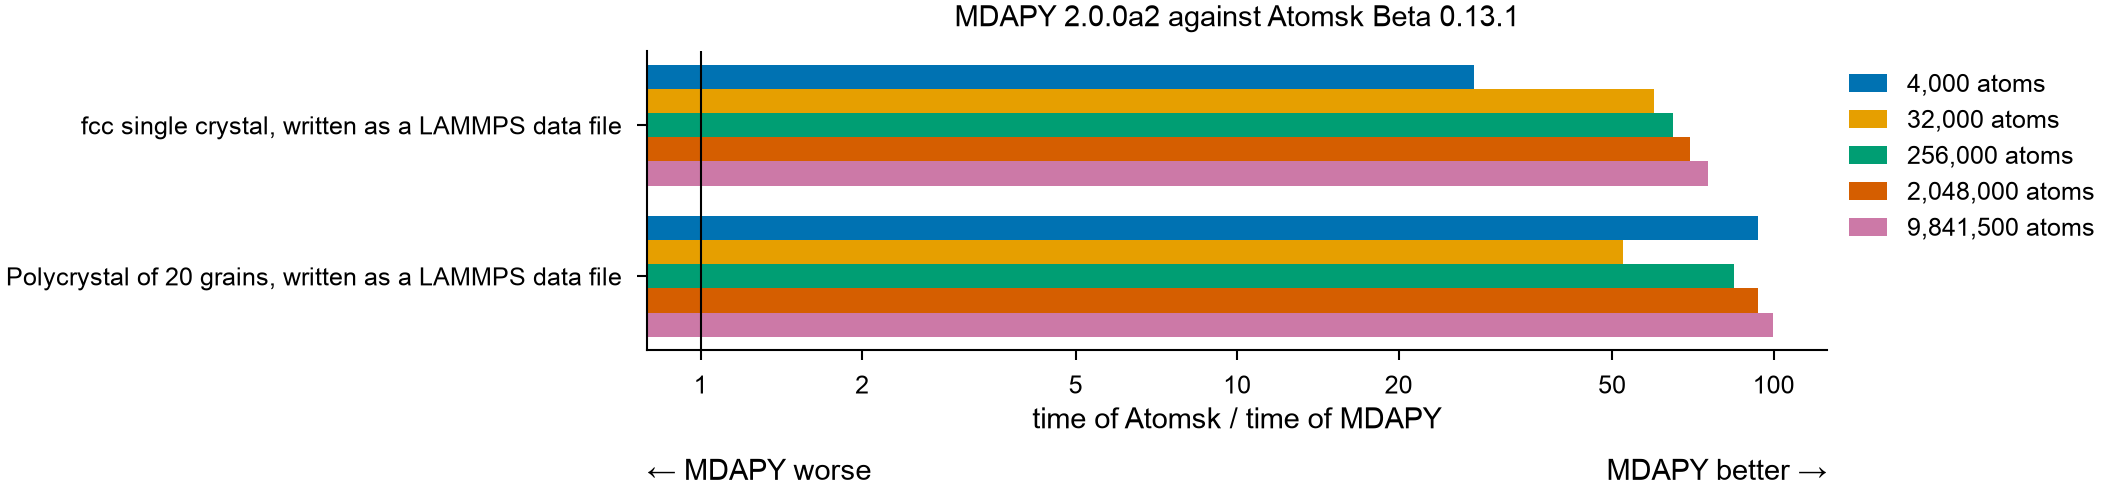
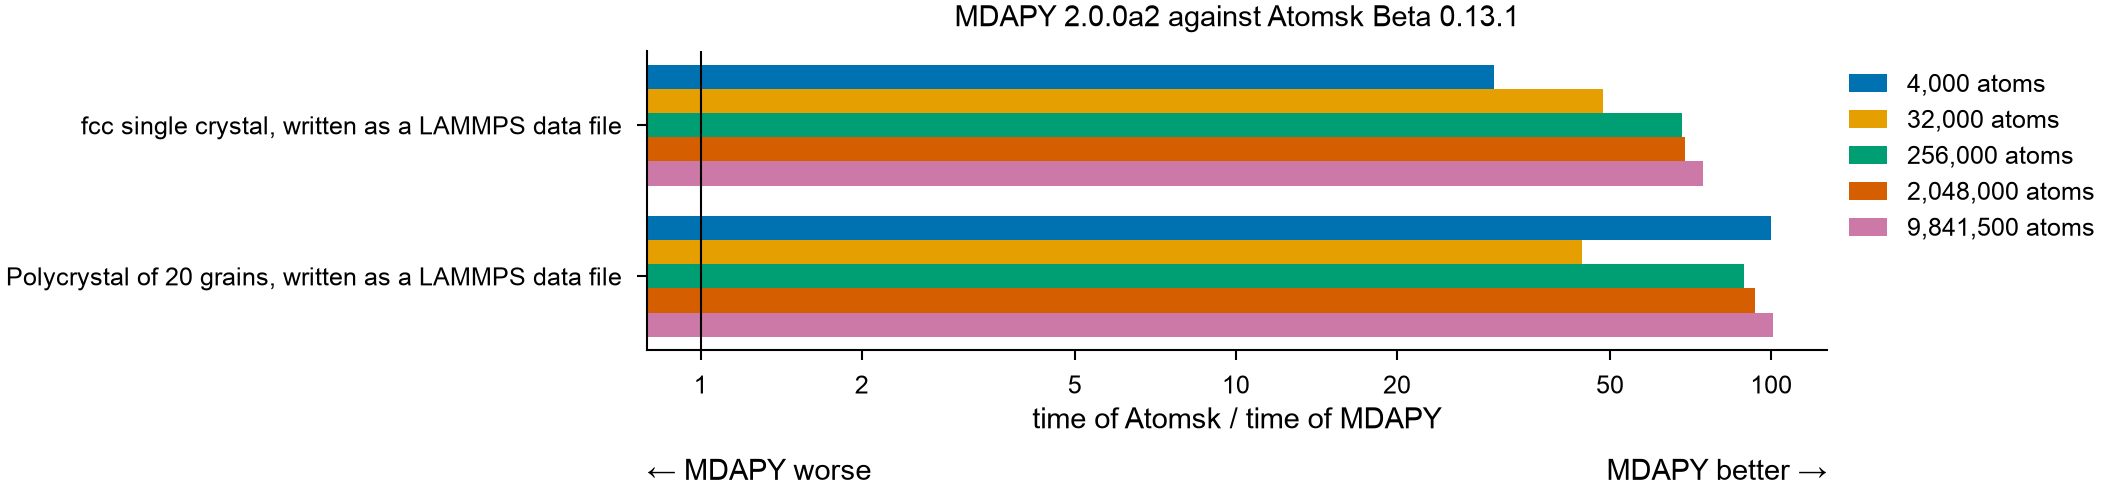
Reading and writing files and building structures measured on a node of Xeon Gold 6148, with gzipped files and the faster data files

diff --git a/docs/performance/files.md b/docs/performance/files.md
@@ -18,19 +18,19 @@ from pip. The [analyses](comparison.md) ran on another node, with Intel Xeon Gol
 
 ### What they show
 
-- **OVITO**: from 32 000 atoms on, MDAPY reads the three formats 3.9 to
-  19 times faster and writes them 4.3 to 24 times faster. At 4 000 atoms
-  MDAPY reads 1.0 to 1.1 times faster and writes 1.0 to 3.6 times faster.
-- **ASE**: from 32 000 atoms on, MDAPY reads 27 to 161 times faster and writes
-  23 to 130 times faster; at 4 000 atoms, 4.9 to 10 and 5.0 to 9.4 times. ASE
+- **OVITO**: from 32 000 atoms on, MDAPY reads the three formats 4.7 to
+  24 times faster and writes them 8.2 to 24 times faster. At 4 000 atoms
+  MDAPY reads 1.0 to 1.3 times faster and writes 2.0 to 3.6 times faster.
+- **ASE**: from 32 000 atoms on, MDAPY reads 27 to 308 times faster and writes
+  43 to 130 times faster; at 4 000 atoms, 4.9 to 12 and 9.4 to 13 times. ASE
   reads a data file of nearly 10 million atoms in 45 s and 18 GB of memory.
 - **Gzip**: MDAPY compresses on all threads. From 256 000 atoms on it writes
-  gzipped files 13 to 35 times faster than OVITO and 48 to 165 times faster
-  than ASE. It reads them 1.1 to 1.8 times faster than OVITO and 3.8 to 13 times
+  gzipped files 14 to 35 times faster than OVITO and 48 to 185 times faster
+  than ASE. It reads them 1.1 to 2.0 times faster than OVITO and 3.8 to 14 times
   faster than ASE: most of that time is decompressing.
-- **Nearly 10 million atoms** take MDAPY 0.12 to 0.62 s to read in each format,
-  and 0.26 to 0.52 s to write with every digit; gzipped, 3.2 to 4.1 s to read and
-  1.8 to 2.3 s to write.
+- **Nearly 10 million atoms** take MDAPY 0.12 to 0.15 s to read in each format,
+  and 0.26 to 0.35 s to write with every digit; gzipped, 3.2 to 3.7 s to read and
+  1.8 to 2.0 s to write.
 
 ### Times and memory
 
@@ -52,16 +52,16 @@ its peak before the timings.
 | Write a LAMMPS dump | 256,000 | 0.010 | 0.151 | 15.09 | 30 | 0 |
 | Write a LAMMPS dump | 2,048,000 | 0.073 | 1.195 | 16.27 | 54 | 0 |
 | Write a LAMMPS dump | 9,841,500 | 0.334 | 5.772 | 17.30 | 39 | 0 |
-| Read a LAMMPS data file | 4,000 | 0.0014 | 0.0015 | 1.09 | 0 | 0 |
-| Read a LAMMPS data file | 32,000 | 0.0028 | 0.011 | 3.91 | 1 | 5 |
-| Read a LAMMPS data file | 256,000 | 0.015 | 0.083 | 5.59 | 0 | 0 |
-| Read a LAMMPS data file | 2,048,000 | 0.131 | 0.687 | 5.24 | 230 | 47 |
-| Read a LAMMPS data file | 9,841,500 | 0.623 | 3.459 | 5.55 | 1196 | 125 |
-| Write a LAMMPS data file | 4,000 | 0.0027 | 0.0027 | 1.01 | 0 | 0 |
-| Write a LAMMPS data file | 32,000 | 0.0046 | 0.020 | 4.25 | 0 | 0 |
-| Write a LAMMPS data file | 256,000 | 0.017 | 0.154 | 9.19 | 33 | 0 |
-| Write a LAMMPS data file | 2,048,000 | 0.121 | 1.254 | 10.39 | 155 | 0 |
-| Write a LAMMPS data file | 9,841,500 | 0.519 | 5.907 | 11.37 | 395 | 0 |
+| Read a LAMMPS data file | 4,000 | 0.0012 | 0.0015 | 1.27 | 0 | 0 |
+| Read a LAMMPS data file | 32,000 | 0.0018 | 0.011 | 5.82 | 1 | 5 |
+| Read a LAMMPS data file | 256,000 | 0.0047 | 0.083 | 17.85 | 0 | 0 |
+| Read a LAMMPS data file | 2,048,000 | 0.036 | 0.687 | 18.83 | 146 | 47 |
+| Read a LAMMPS data file | 9,841,500 | 0.145 | 3.459 | 23.85 | 921 | 125 |
+| Write a LAMMPS data file | 4,000 | 0.0011 | 0.0027 | 2.59 | 0 | 0 |
+| Write a LAMMPS data file | 32,000 | 0.0022 | 0.020 | 8.89 | 2 | 0 |
+| Write a LAMMPS data file | 256,000 | 0.013 | 0.154 | 12.19 | 34 | 0 |
+| Write a LAMMPS data file | 2,048,000 | 0.087 | 1.254 | 14.40 | 204 | 0 |
+| Write a LAMMPS data file | 9,841,500 | 0.347 | 5.907 | 17.02 | 131 | 0 |
 | Read extended XYZ | 4,000 | 0.0010 | 0.0011 | 1.02 | 0 | 0 |
 | Read extended XYZ | 32,000 | 0.0016 | 0.0074 | 4.65 | 1 | 3 |
 | Read extended XYZ | 256,000 | 0.0056 | 0.059 | 10.46 | 0 | 0 |
@@ -82,16 +82,16 @@ its peak before the timings.
 | Write a gzipped LAMMPS dump | 256,000 | 0.131 | 1.794 | 13.70 | 62 | 0 |
 | Write a gzipped LAMMPS dump | 2,048,000 | 0.508 | 14.797 | 29.11 | 106 | 0 |
 | Write a gzipped LAMMPS dump | 9,841,500 | 2.008 | 69.989 | 34.86 | 85 | 0 |
-| Read a gzipped LAMMPS data file | 4,000 | 0.0025 | 0.0033 | 1.35 | 0 | 1 |
-| Read a gzipped LAMMPS data file | 32,000 | 0.012 | 0.022 | 1.78 | 0 | 3 |
-| Read a gzipped LAMMPS data file | 256,000 | 0.092 | 0.168 | 1.82 | 0 | 0 |
-| Read a gzipped LAMMPS data file | 2,048,000 | 0.809 | 1.380 | 1.70 | 140 | 13 |
-| Read a gzipped LAMMPS data file | 9,841,500 | 4.127 | 6.684 | 1.62 | 752 | 48 |
-| Write a gzipped LAMMPS data file | 4,000 | 0.021 | 0.026 | 1.27 | 0 | 0 |
-| Write a gzipped LAMMPS data file | 32,000 | 0.086 | 0.216 | 2.50 | 8 | 0 |
-| Write a gzipped LAMMPS data file | 256,000 | 0.138 | 1.787 | 12.95 | 68 | 0 |
-| Write a gzipped LAMMPS data file | 2,048,000 | 0.542 | 14.858 | 27.39 | 204 | 0 |
-| Write a gzipped LAMMPS data file | 9,841,500 | 2.259 | 69.931 | 30.96 | 426 | 0 |
+| Read a gzipped LAMMPS data file | 4,000 | 0.0023 | 0.0033 | 1.43 | 0 | 1 |
+| Read a gzipped LAMMPS data file | 32,000 | 0.011 | 0.022 | 1.91 | 0 | 3 |
+| Read a gzipped LAMMPS data file | 256,000 | 0.082 | 0.168 | 2.05 | 0 | 0 |
+| Read a gzipped LAMMPS data file | 2,048,000 | 0.707 | 1.380 | 1.95 | 141 | 13 |
+| Read a gzipped LAMMPS data file | 9,841,500 | 3.525 | 6.684 | 1.90 | 914 | 48 |
+| Write a gzipped LAMMPS data file | 4,000 | 0.019 | 0.026 | 1.39 | 0 | 0 |
+| Write a gzipped LAMMPS data file | 32,000 | 0.080 | 0.216 | 2.69 | 8 | 0 |
+| Write a gzipped LAMMPS data file | 256,000 | 0.129 | 1.787 | 13.90 | 60 | 0 |
+| Write a gzipped LAMMPS data file | 2,048,000 | 0.497 | 14.858 | 29.87 | 267 | 0 |
+| Write a gzipped LAMMPS data file | 9,841,500 | 2.023 | 69.931 | 34.57 | 175 | 0 |
 | Read gzipped extended XYZ | 4,000 | 0.0021 | 0.0024 | 1.13 | 0 | 0 |
 | Read gzipped extended XYZ | 32,000 | 0.011 | 0.017 | 1.57 | 0 | 1 |
 | Read gzipped extended XYZ | 256,000 | 0.077 | 0.134 | 1.75 | 0 | 0 |
@@ -112,16 +112,16 @@ its peak before the timings.
 | Read a LAMMPS dump | 256,000 | 0.0049 | 0.345 | 70.69 | 0 | 34 |
 | Read a LAMMPS dump | 2,048,000 | 0.028 | 2.863 | 101.18 | 122 | 412 |
 | Read a LAMMPS dump | 9,841,500 | 0.122 | 14.035 | 114.81 | 770 | 2208 |
-| Read a LAMMPS data file | 4,000 | 0.0014 | 0.014 | 10.07 | 0 | 7 |
-| Read a LAMMPS data file | 32,000 | 0.0028 | 0.124 | 44.82 | 1 | 59 |
-| Read a LAMMPS data file | 256,000 | 0.015 | 1.012 | 67.98 | 0 | 510 |
-| Read a LAMMPS data file | 2,048,000 | 0.131 | 8.181 | 62.35 | 230 | 4009 |
-| Read a LAMMPS data file | 9,841,500 | 0.623 | 44.730 | 71.82 | 1196 | 18392 |
-| Write a LAMMPS data file | 4,000 | 0.0027 | 0.014 | 5.00 | 0 | 0 |
-| Write a LAMMPS data file | 32,000 | 0.0046 | 0.104 | 22.58 | 0 | 2 |
-| Write a LAMMPS data file | 256,000 | 0.017 | 0.861 | 51.25 | 33 | 32 |
-| Write a LAMMPS data file | 2,048,000 | 0.121 | 7.123 | 59.02 | 155 | 234 |
-| Write a LAMMPS data file | 9,841,500 | 0.519 | 34.116 | 65.69 | 395 | 120 |
+| Read a LAMMPS data file | 4,000 | 0.0012 | 0.014 | 11.72 | 0 | 7 |
+| Read a LAMMPS data file | 32,000 | 0.0018 | 0.124 | 66.80 | 1 | 59 |
+| Read a LAMMPS data file | 256,000 | 0.0047 | 1.012 | 217.00 | 0 | 510 |
+| Read a LAMMPS data file | 2,048,000 | 0.036 | 8.181 | 224.25 | 146 | 4009 |
+| Read a LAMMPS data file | 9,841,500 | 0.145 | 44.730 | 308.31 | 921 | 18392 |
+| Write a LAMMPS data file | 4,000 | 0.0011 | 0.014 | 12.80 | 0 | 0 |
+| Write a LAMMPS data file | 32,000 | 0.0022 | 0.104 | 47.24 | 2 | 2 |
+| Write a LAMMPS data file | 256,000 | 0.013 | 0.861 | 68.04 | 34 | 32 |
+| Write a LAMMPS data file | 2,048,000 | 0.087 | 7.123 | 81.76 | 204 | 234 |
+| Write a LAMMPS data file | 9,841,500 | 0.347 | 34.116 | 98.28 | 131 | 120 |
 | Read extended XYZ | 4,000 | 0.0010 | 0.0089 | 8.60 | 0 | 1 |
 | Read extended XYZ | 32,000 | 0.0016 | 0.070 | 43.88 | 1 | 8 |
 | Read extended XYZ | 256,000 | 0.0056 | 0.602 | 106.70 | 0 | 52 |
@@ -137,16 +137,16 @@ its peak before the timings.
 | Read a gzipped LAMMPS dump | 256,000 | 0.086 | 0.562 | 6.52 | 0 | 28 |
 | Read a gzipped LAMMPS dump | 2,048,000 | 0.718 | 4.653 | 6.48 | 142 | 411 |
 | Read a gzipped LAMMPS dump | 9,841,500 | 3.663 | 22.356 | 6.10 | 830 | 2259 |
-| Read a gzipped LAMMPS data file | 4,000 | 0.0025 | 0.016 | 6.57 | 0 | 7 |
-| Read a gzipped LAMMPS data file | 32,000 | 0.012 | 0.139 | 11.49 | 0 | 58 |
-| Read a gzipped LAMMPS data file | 256,000 | 0.092 | 1.176 | 12.77 | 0 | 465 |
-| Read a gzipped LAMMPS data file | 2,048,000 | 0.809 | 10.221 | 12.63 | 140 | 4006 |
-| Read a gzipped LAMMPS data file | 9,841,500 | 4.127 | 48.558 | 11.77 | 752 | 18460 |
-| Write a gzipped LAMMPS data file | 4,000 | 0.021 | 0.140 | 6.77 | 0 | 0 |
-| Write a gzipped LAMMPS data file | 32,000 | 0.086 | 1.057 | 12.27 | 8 | 2 |
-| Write a gzipped LAMMPS data file | 256,000 | 0.138 | 9.782 | 70.90 | 68 | 33 |
-| Write a gzipped LAMMPS data file | 2,048,000 | 0.542 | 78.245 | 144.26 | 204 | 242 |
-| Write a gzipped LAMMPS data file | 9,841,500 | 2.259 | 373.525 | 165.39 | 426 | 120 |
+| Read a gzipped LAMMPS data file | 4,000 | 0.0023 | 0.016 | 6.98 | 0 | 7 |
+| Read a gzipped LAMMPS data file | 32,000 | 0.011 | 0.139 | 12.30 | 0 | 58 |
+| Read a gzipped LAMMPS data file | 256,000 | 0.082 | 1.176 | 14.35 | 0 | 465 |
+| Read a gzipped LAMMPS data file | 2,048,000 | 0.707 | 10.221 | 14.46 | 141 | 4006 |
+| Read a gzipped LAMMPS data file | 9,841,500 | 3.525 | 48.558 | 13.78 | 914 | 18460 |
+| Write a gzipped LAMMPS data file | 4,000 | 0.019 | 0.140 | 7.38 | 0 | 0 |
+| Write a gzipped LAMMPS data file | 32,000 | 0.080 | 1.057 | 13.19 | 8 | 2 |
+| Write a gzipped LAMMPS data file | 256,000 | 0.129 | 9.782 | 76.10 | 60 | 33 |
+| Write a gzipped LAMMPS data file | 2,048,000 | 0.497 | 78.245 | 157.31 | 267 | 242 |
+| Write a gzipped LAMMPS data file | 9,841,500 | 2.023 | 373.525 | 184.63 | 175 | 120 |
 | Read gzipped extended XYZ | 4,000 | 0.0021 | 0.012 | 5.67 | 0 | 1 |
 | Read gzipped extended XYZ | 32,000 | 0.011 | 0.101 | 9.51 | 0 | 7 |
 | Read gzipped extended XYZ | 256,000 | 0.077 | 0.791 | 10.32 | 0 | 38 |
@@ -196,6 +196,8 @@ decimals, so its extended XYZ is about a third smaller.
   file cache of the operating system: the times are those of reading and
   parsing, not of the disk. Writing goes to the local disk of the node as
   the operating system takes it.
+- The times of MDAPY for LAMMPS data files were measured last, on another
+  node of the same kind.
 - Each process first reads or writes a system of 500 atoms, so that loading
   libraries and starting threads are not timed, then three times the
   system; the shortest time counts.

diff --git a/docs/performance/builders.md b/docs/performance/builders.md
@@ -17,10 +17,10 @@ another node, with Intel Xeon Gold 6248, so their times do not compare with thes
 
 ### What they show
 
-- **Single crystal**: MDAPY builds and writes it 28 to 75 times faster
+- **Single crystal**: MDAPY builds and writes it 30 to 75 times faster
   than Atomsk, 0.34 s against 25.5 s at nearly 10 million atoms; building it is
   a repetition of the cell, and most of the time is writing the file.
-- **Polycrystal**: MDAPY is 52 to 100 times faster, 0.48 s against 48.3 s at
+- **Polycrystal**: MDAPY is 44 to 101 times faster, 0.48 s against 48.3 s at
   nearly 10 million atoms; most of the time is writing the file here too.
 
 ### Times and memory
@@ -33,16 +33,16 @@ the timings; that of Atomsk, a process of its own, is not counted.
 
 | Case | Atoms | MDAPY 2.0.0a2 (s) | Atomsk Beta 0.13.1 (s) | Atomsk / MDAPY | MDAPY (MB) | Atomsk (MB) |
 |---|---:|---:|---:|---:|---:|---:|
-| fcc single crystal, written as a LAMMPS data file | 4,000 | 0.0016 | 0.044 | 27.62 | 0 | 0 |
-| fcc single crystal, written as a LAMMPS data file | 32,000 | 0.0025 | 0.151 | 59.80 | 1 | 0 |
-| fcc single crystal, written as a LAMMPS data file | 256,000 | 0.011 | 0.710 | 64.89 | 39 | 0 |
-| fcc single crystal, written as a LAMMPS data file | 2,048,000 | 0.076 | 5.317 | 69.74 | 145 | 0 |
-| fcc single crystal, written as a LAMMPS data file | 9,841,500 | 0.339 | 25.539 | 75.42 | 411 | 0 |
-| Polycrystal of 20 grains, written as a LAMMPS data file | 3,981 | 0.0063 | 0.585 | 93.51 | 0 | 0 |
-| Polycrystal of 20 grains, written as a LAMMPS data file | 31,995 | 0.0086 | 0.450 | 52.33 | 2 | 0 |
-| Polycrystal of 20 grains, written as a LAMMPS data file | 255,941 | 0.018 | 1.540 | 84.23 | 40 | 0 |
-| Polycrystal of 20 grains, written as a LAMMPS data file | 2,047,788 | 0.109 | 10.208 | 93.49 | 65 | 0 |
-| Polycrystal of 20 grains, written as a LAMMPS data file | 9,841,309 | 0.484 | 48.292 | 99.88 | 311 | 0 |
+| fcc single crystal, written as a LAMMPS data file | 4,000 | 0.0014 | 0.044 | 30.34 | 0 | 0 |
+| fcc single crystal, written as a LAMMPS data file | 32,000 | 0.0031 | 0.151 | 48.43 | 3 | 0 |
+| fcc single crystal, written as a LAMMPS data file | 256,000 | 0.010 | 0.710 | 67.99 | 40 | 0 |
+| fcc single crystal, written as a LAMMPS data file | 2,048,000 | 0.077 | 5.317 | 68.88 | 143 | 0 |
+| fcc single crystal, written as a LAMMPS data file | 9,841,500 | 0.343 | 25.539 | 74.52 | 413 | 0 |
+| Polycrystal of 20 grains, written as a LAMMPS data file | 3,981 | 0.0059 | 0.585 | 99.99 | 0 | 0 |
+| Polycrystal of 20 grains, written as a LAMMPS data file | 31,995 | 0.010 | 0.450 | 44.33 | 2 | 0 |
+| Polycrystal of 20 grains, written as a LAMMPS data file | 255,941 | 0.017 | 1.540 | 88.83 | 39 | 0 |
+| Polycrystal of 20 grains, written as a LAMMPS data file | 2,047,788 | 0.109 | 10.208 | 93.45 | 64 | 0 |
+| Polycrystal of 20 grains, written as a LAMMPS data file | 9,841,309 | 0.478 | 48.292 | 100.93 | 311 | 0 |
 
 ## Cases
 
@@ -78,6 +78,8 @@ does by default.
   grain the atoms of Atomsk are those of MDAPY moved by one vector, a
   different one for each grain. The check finds that vector the same for
   every atom of a grain away from its faces, within 1e-6 Å.
+- The times of MDAPY were measured after those of Atomsk, on another node of
+  the same kind.
 - Each process first builds a structure of 500 atoms, then three times the
   structure; the shortest time counts.
 

diff --git a/docs/about/release-notes.md b/docs/about/release-notes.md
@@ -24,6 +24,10 @@
   no larger than before: a LAMMPS dump of 2 million atoms takes 0.7 s instead of 4.4 s on 10
   threads. Use `.gz` to compress: the other formats compress on one thread. See
   [Compressed files](../basics/io.md#compressed-files).
+- LAMMPS data files are read and written about as fast as dumps: their atoms are no longer
+  sorted to check their IDs, and what depends on the type is found once for each type. On 40
+  threads, 10 million atoms take 0.15 s instead of 0.62 s to read and 0.35 s instead of 0.52 s
+  to write.
 - Text files are written and read faster, with less memory and the same text and values: on
   10 threads, a LAMMPS dump of 10 million atoms and 5 columns takes 0.11 s instead of 0.30 s to
   write and 0.12 s instead of 0.37 s to read. A file on disk takes the text straight from the
